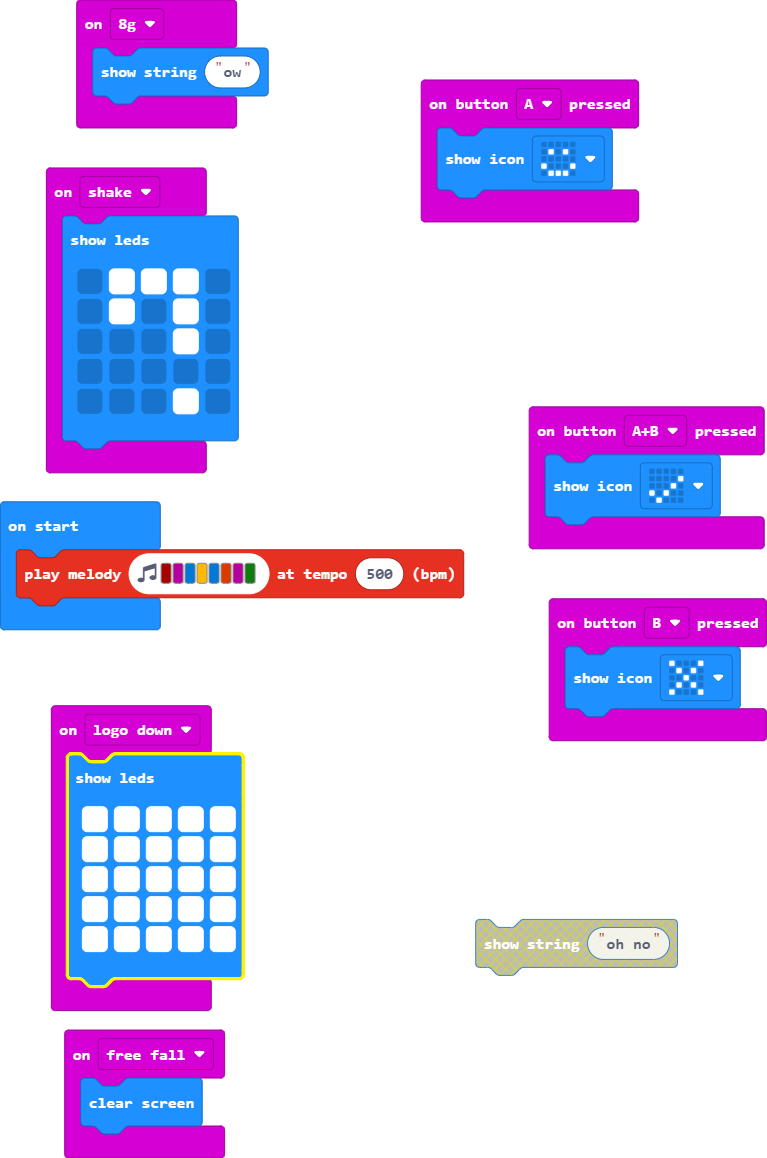
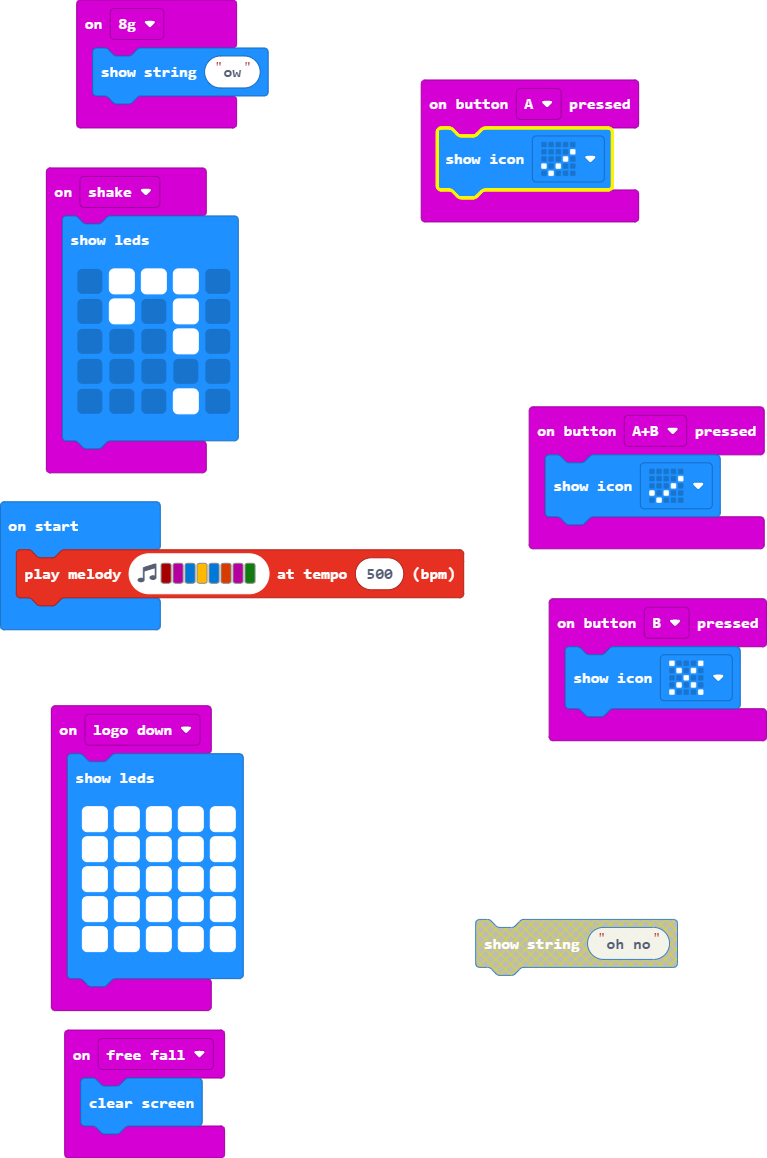
Update main.blocks, main.ts

diff --git a/main.ts b/main.ts
@@ -2,7 +2,7 @@ input.onGesture(Gesture.EightG, function () {
     basic.showString("ow")
 })
 input.onButtonPressed(Button.A, function () {
-    basic.showIcon(IconNames.Happy)
+    basic.showIcon(IconNames.Yes)
 })
 input.onGesture(Gesture.FreeFall, function () {
     basic.clearScreen()
